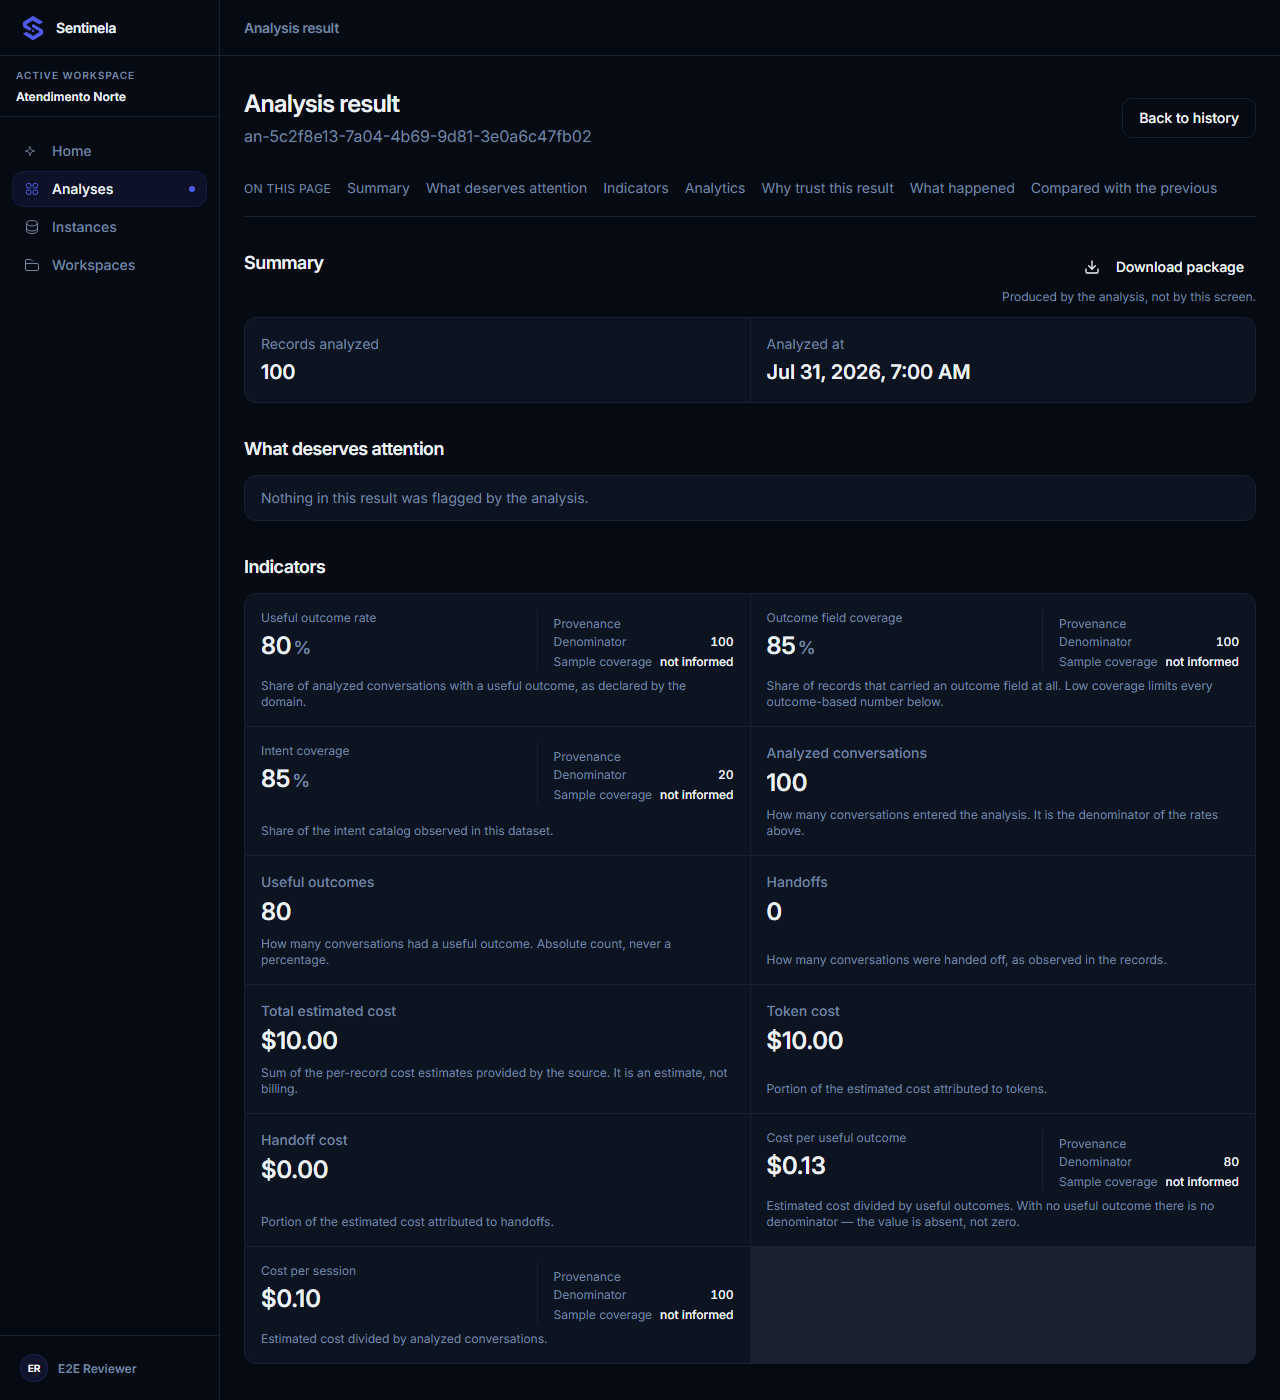
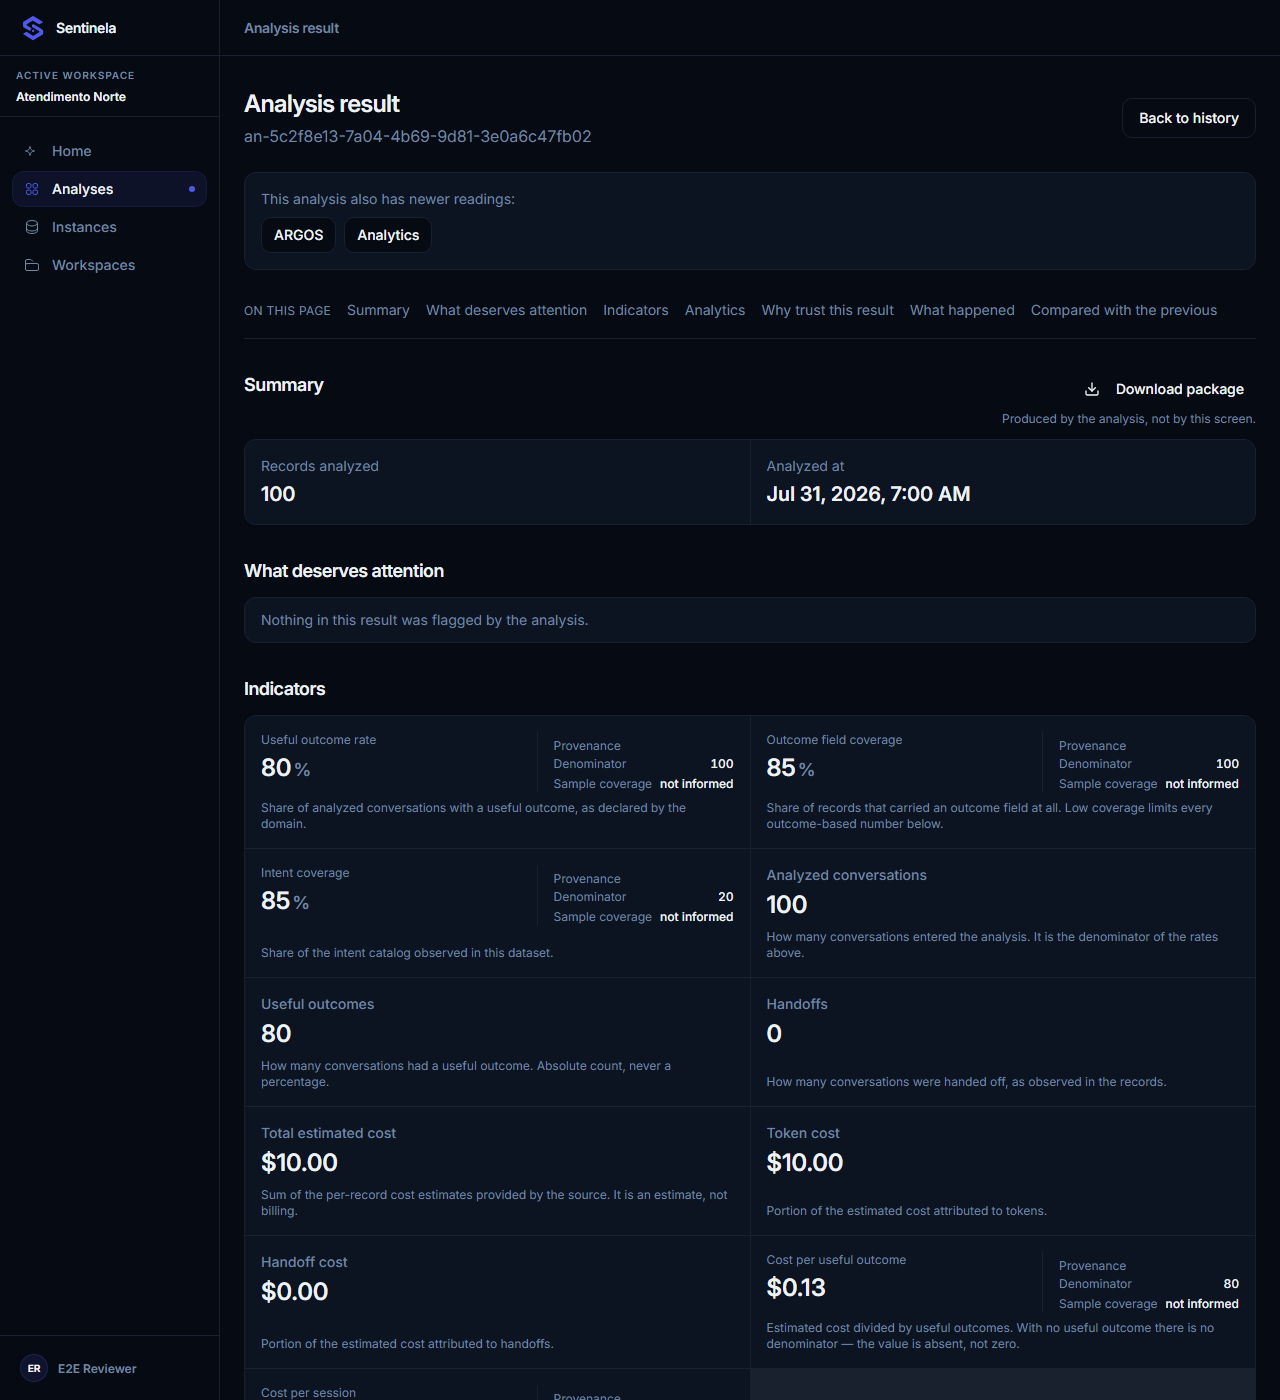
M45.3 (5): as decisoes de owner, e a remocao que nao aconteceu
O owner leu as dividas e comecou mandando APOSENTAR RES-01 -- a decisao que o
Blueprint 4.6 e o T7 deixavam em aberto.

Ao medir o alcance apareceu uma consequencia nao precificada: RES-01 e o UNICO
lugar do produto que le os documentos v1 e v2. As visoes vivas leem outra
coisa. Remove-la deixaria analises anteriores ao v3 sem leitura nenhuma, e
tornaria falsa uma frase que o produto ja diz -- "o resultado historico segue
disponivel", na visao ARGOS, aponta justamente para a tela que sairia.

Com isso na mesa, o owner reverteu: manter o deep link, da melhor forma, sem
excluir nada.

A PONTE, E A TRAVESSIA DO T7

A tela legada passa a oferecer as entradas de ARGOS e Analytics da MESMA
analise, da lista canonica VISOES_DA_ANALISE -- a mesma do shell e da jornada,
porque uma segunda lista divergiria no primeiro ajuste.

Isto atravessa a primeira metade do T7 ("nao recebe feature nova"), e a
travessia esta registrada no proprio PRODUCT-EXPERIENCE-FREEZE-V1.md, com o
motivo. A segunda metade segue intacta: nenhuma navegacao aponta PARA /result
-- esta sai dele. E o motivo declarado do T7 ("deep link antigo nao pode
quebrar") sustenta a decisao: a ponte nao quebra o link, faz o link levar a
algum lugar.

O SPINNER QUE PROMETIA O QUE NAO VEM

ProblemFeedback ganhou `aguardando`, padrao true -- quem nao sabe responder nao
muda nada. RES-01 passa false.

E o motivo de passar false e estrutural, nao uma conta: aquela pagina SO busca
[…]

diff --git a/src/features/canonical-analysis/ui/ResultPage.tsx b/src/features/canonical-analysis/ui/ResultPage.tsx
@@ -48,6 +48,7 @@ import { SecaoDeAtencao } from "./analytics/SecaoDeAtencao";
 import { RegiaoDeAnalyticsAoVivo } from "./analytics/RegiaoDeAnalyticsAoVivo";
 import { PainelDeProcedencia } from "./analytics/PainelDeProcedencia";
 import { LinhaDoTempo } from "./analytics/LinhaDoTempo";
+import { VISOES_DA_ANALISE } from "./visoes";
 import { ComparacaoComAnterior } from "./analytics/ComparacaoComAnterior";
 import { AcaoDeExport } from "./analytics/AcaoDeExport";
 import { IndiceDeRegioes, type RegiaoIndexada } from "./analytics/IndiceDeRegioes";
@@ -213,7 +214,28 @@ export function ResultPage() {
       );
     }
     if (resultado.isError) {
-      return <ProblemFeedback error={resultado.error} onRetry={() => void resultado.refetch()} retryDisabled={resultado.isFetching} />;
+      // `aguardando` sai do ESTADO da análise — decisão de owner, 2026-08-15.
+      //
+      // `result_not_available` é espera neutra, e com a análise em curso isso é verdade: o
+      // documento ainda vem. Com ela concluída e o documento levado pela retenção, nada vem — e o
+      // spinner prometia progresso que não existe, com `aria-busy` dizendo a um leitor de tela que
+      // a região está atualizando.
+      //
+      // Quem sabe responder é esta página, que já leu o status. O padrão do componente continua
+      // sendo `true`, para toda superfície que não sabe.
+      return (
+        <ProblemFeedback
+          error={resultado.error}
+          onRetry={() => void resultado.refetch()}
+          retryDisabled={resultado.isFetching}
+          // SEMPRE `false` aqui, e não uma conta sobre o status: esta página só busca o
+          // documento quando `pronto` (concluída E com resultado anunciado). O aviso nunca
+          // significa "ainda vem" nesta rota — significa que o documento foi levado pela
+          // retenção. Uma conta daria a impressão de que existe caso em curso, e não existe:
+          // eu escrevi essa conta primeiro, e a contraprova a reprovou por ser inalcançável.
+          aguardando={false}
+        />
+      );
     }
     if (!resultado.data) return null;
 
@@ -250,6 +272,45 @@ export function ResultPage() {
               <Link to="/analyses">{t("canonicalAnalysis.result.backToHistory")}</Link>
             </Button>
           </div>
+
+          {/* A PONTE PARA AS DUAS LEITURAS ATUAIS — decisão de owner, 2026-08-15.
+              ATRAVESSA O T7 DO PRODUCT FREEZE, e isso está registrado lá também.
+              T7 diz duas coisas: *"não recebe feature nova"* e *"nenhuma navegação canônica nova
+              aponta PARA ele"*. A segunda não é tocada — esta navegação sai daqui, não chega aqui.
+              A primeira é: um bloco de navegação é capacidade que a página não tinha.
+              O owner decidiu isto sabendo do congelamento, e o motivo do próprio T7 sustenta a
+              decisão: ele existe porque *"deep link antigo não pode quebrar"*. A ponte não quebra
+              o link — faz o link levar a algum lugar.
+              Esta é a superfície CONGELADA. Quem chega aqui veio de um link salvo, e a tela
+              mostrava tudo direito com uma saída só: voltar ao histórico. Nada dizia que existem
+              duas leituras mais novas da MESMA análise, então o link antigo servia para sempre
+              alguém que nunca conheceria a substituta. O owner decidiu manter o deep link e
+              fazê-lo funcionar "da melhor forma" — é isto.
+              A lista vem de `VISOES_DA_ANALISE`, a mesma que o shell e a jornada usam: uma segunda
+              lista divergiria no primeiro ajuste e esta tela passaria a oferecer visão que o
+              router não conhece. */}
+          {analysisId && (
+            <nav
+              aria-label={t("canonicalAnalysis.shell.viewsNavLabel")}
+              className="rounded-lg border border-border bg-card p-4"
+            >
+              <p className="text-sm text-muted-foreground">
+                {t("canonicalAnalysis.result.newerViews")}
+              </p>
+              <ul className="mt-2 flex flex-wrap gap-2">
+                {VISOES_DA_ANALISE.map((visao) => (
+                  <li key={visao.caminho}>
+                    <Button variant="outline" size="sm" asChild>
+                      <Link to={`/analyses/${encodeURIComponent(analysisId)}/${visao.caminho}`}>
+                        {t(`canonicalAnalysis.shell.view.${visao.caminho}`)}
+                      </Link>
+                    </Button>
+                  </li>
+                ))}
+              </ul>
+            </nav>
+          )}
+
           {corpo()}
         </div>
       </PageFrame>

diff --git a/e2e/m45-matriz.spec.ts b/e2e/m45-matriz.spec.ts
@@ -249,6 +249,29 @@ async function semResultado(page: Page): Promise<void> {
   );
 }
 
+/**
+ * Concluída e SEM resultado — o próprio status diz que não há.
+ *
+ * Não confundir com `semResultado`: lá o status anuncia `result_available: true` e o documento foi
+ * levado pela retenção. Aqui nunca houve o que anunciar, e a tela diz outra coisa.
+ */
+async function concluidaSemResultado(page: Page): Promise<void> {
+  await page.route("**/v1/analyses/*", (r) =>
+    r.fulfill(
+      json({
+        analysis_id: ANALISE,
+        status: "completed",
+        record_count: 1240,
+        result_available: false,
+        retry_allowed: false,
+        created_at: "2026-08-03T17:12:44Z",
+        updated_at: "2026-08-03T17:13:02Z",
+        instance_id: null,
+      }),
+    ),
+  );
+}
+
 /** Três análises em estados diferentes e uma Instância — o produto com CONTEÚDO. */
 async function povoar(page: Page): Promise<void> {
   await page.route(
@@ -338,6 +361,14 @@ const JOURNEYS: readonly Journey[] = [
     terminal: /Why trust this result|Por que confiar/ },
   { id: "J16", nome: "resultado indisponível", rota: `/analyses/${ANALISE}/result`,
     terminal: /No result is available|Nenhum resultado/, montar: semResultado },
+
+  // O estado que a M45.3 descobriu ao desfazer um julgamento errado, e que ficou de fora daquela
+  // rodada. Decisão de owner (2026-08-15): medir agora.
+  //
+  // É DIFERENTE de J16. Ali o status anuncia `result_available: true` e o documento foi levado
+  // pela retenção; aqui o próprio status diz que não há resultado. Duas telas, duas frases.
+  { id: "J17", nome: "concluída sem resultado", rota: `/analyses/${ANALISE}/result`,
+    terminal: /still being prepared|ainda está sendo preparado/, montar: concluidaSemResultado },
 ] as const;
 
 // ══════════════════════════════════════════════════════════════════════════════════════════
@@ -506,6 +537,40 @@ test.describe("M45 · G11 · os três estados não colapsam", () => {
       await page.locator('main [role="alert"]').count(),
       "a tela inteira fora do ar deixou de alarmar — a regra da casa foi afrouxada para todos",
     ).toBeGreaterThan(0);
+  });
+
+  // M45.3 · decisões de owner (2026-08-15) sobre a superfície CONGELADA.
+  //
+  // A primeira ATRAVESSA o T7 do Product Freeze, com emenda registrada lá: quem chega por deep
+  // link antigo passa a ver as entradas das duas leituras atuais da mesma Analysis. Sem isto, o
+  // link servia indefinidamente alguém que nunca conheceria a substituta.
+  test("o resultado legado oferece as duas leituras atuais da MESMA análise", async ({ page }) => {
+    await montarProduto(page);
+    await page.goto(`/analyses/${ANALISE}/result`);
+    await expect(page.locator("main")).toContainText(/Why trust this result/, { timeout: 20_000 });
+
+    // Os HREFS, e não só os rótulos: um link com o texto certo e o destino errado passaria.
+    for (const visao of ["argos", "analytics"]) {
+      await expect(
+        page.locator("main").locator(`a[href="/analyses/${ANALISE}/${visao}"]`),
+        `o resultado legado não oferece a visão ${visao} desta análise`,
+      ).toHaveCount(1);
+    }
+  });
+
+  // A segunda: o aviso de documento levado pela retenção não gira mais uma rodinha.
+  test("resultado purgado NÃO anuncia progresso — nada mais vem", async ({ page }) => {
+    await montarProduto(page);
+    await semResultado(page);
+    await page.goto(`/analyses/${ANALISE}/result`);
+    await expect(page.locator("main")).toContainText(/No result is available/, { timeout: 20_000 });
+
+    // `aria-busy` é o que um leitor de tela ouve como "esta região está atualizando".
+    const aviso = page.locator("main").getByText(/No result is available/).first();
+    expect(
+      await aviso.evaluate((el) => el.closest('[aria-busy="true"]') !== null),
+      "a tela anuncia que algo está em curso, e a análise já terminou",
+    ).toBe(false);
   });
 
   // A TERCEIRA causa: enquanto a leitura NÃO VOLTOU.

diff --git a/src/features/canonical-analysis/ui/a11y.test.tsx b/src/features/canonical-analysis/ui/a11y.test.tsx
@@ -6,6 +6,8 @@ import { beforeAll, describe, expect, it, vi } from "vitest";
 import { LanguageProvider } from "@/contexts/LanguageContext";
 import { createV1Client, type V1Client } from "@/lib/v1";
 import { statusView } from "@/test/fixtures/public-v1/analyses";
+import { ProblemError } from "@/lib/v1";
+import { ProblemFeedback } from "./notices";
 import { MSW_BASE } from "@/test/msw/handlers";
 import { setupMsw } from "@/test/msw/server";
 import { CanonicalClientProvider } from "../data/client";
@@ -50,5 +52,49 @@ describe("Acessibilidade (axe) — jornada canônica", () => {
   it("StateBanner (failed): sem violações", async () => {
     const { container } = render(wrap(<StateBanner view={statusView("failed", { retry_allowed: true })} />));
     expect(await semViolacoes(container)).toEqual([]);
+  });
+});
+
+// ═══════════════════════════════════════════════════════════════════════════════════════════
+// M45.3 · decisão de owner — anunciar espera só quando algo vem
+// ═══════════════════════════════════════════════════════════════════════════════════════════
+//
+// `aria-busy` é o que um leitor de tela ouve como *"esta região está atualizando"*, e o spinner é
+// a mesma promessa para quem enxerga. Com o documento levado pela retenção, nada vem.
+//
+// As DUAS direções, e a segunda é a que importa: o padrão do componente não pode ter mudado. Sem
+// ela, apagar o anúncio de espera de todo o produto passaria — e `capacity_wait`, que é espera de
+// verdade, ficaria mudo. Esta é a contraprova que uma tentativa anterior fez em e2e sobre RES-01,
+// onde ela é INALCANÇÁVEL: aquela página só busca o documento quando a análise já terminou.
+describe("M45.3 · ProblemFeedback anuncia espera só quando ela existe", () => {
+  const problema = () =>
+    new ProblemError({
+      type: "urn:sentinela:error:result_not_available",
+      title: "result_not_available",
+      status: 404,
+      code: "result_not_available",
+      detail: "result_not_available",
+      instance: "corr-1",
+      retryable: false,
+    });
+
+  it("por padrão, a espera CONTINUA sendo anunciada", () => {
+    const { container } = render(wrap(<ProblemFeedback error={problema()} />));
+    expect(
+      container.querySelector('[aria-busy="true"]'),
+      "o anúncio de espera sumiu de quem não declarou nada",
+    ).not.toBeNull();
+  });
+
+  it("com `aguardando={false}`, nada é anunciado como em curso", () => {
+    const { container } = render(
+      wrap(<ProblemFeedback error={problema()} aguardando={false} />),
+    );
+    expect(
+      container.querySelector('[aria-busy="true"]'),
+      "a tela anuncia progresso, e nada mais vem",
+    ).toBeNull();
+    // E o aviso continua na tela: silenciar a espera não pode silenciar a informação.
+    expect(container.textContent?.length ?? 0).toBeGreaterThan(10);
   });
 });

diff --git a/src/features/canonical-analysis/ui/notices.tsx b/src/features/canonical-analysis/ui/notices.tsx
@@ -61,6 +61,7 @@ export function ProblemFeedback({
   onNewAnalysis,
   retryDisabled,
   escopo = "tela",
+  aguardando = true,
 }: {
   error: unknown;
   onRetry?: () => void;
@@ -82,13 +83,25 @@ export function ProblemFeedback({
    * existe, sem o spinner, porque não há espera em curso a anunciar.
    */
   escopo?: "tela" | "detalhe";
+  /**
+   * Ainda vem alguma coisa? — decisão de owner de 2026-08-15.
+   *
+   * O tom neutro desenha um spinner, e para uma análise EM CURSO isso é verdade: o documento
+   * ainda está a caminho, e `result_not_available` significa "ainda não". Quando a análise já
+   * terminou e o documento foi levado pela retenção, nada vem — e a rodinha promete um progresso
+   * que não existe, com `aria-busy` dizendo a um leitor de tela que a região está atualizando.
+   *
+   * O padrão é `true` porque é o comportamento de sempre: quem não sabe responder não muda nada.
+   * Só quem CONHECE o estado terminal da análise passa `false`.
+   */
+  aguardando?: boolean;
 }) {
   const { t } = useLanguage();
   if (error == null) return null;
   const p = describeProblem(problemCodeOf(error));
   const detalhe = escopo === "detalhe";
   const erro = p.tone === "error" && !detalhe;
-  const esperando = p.tone !== "error" && !detalhe;
+  const esperando = p.tone !== "error" && !detalhe && aguardando;
   return (
     <div
       role={erro ? "alert" : "status"}

diff --git a/docs/m45/DOC-CLOSE-M45-3.md b/docs/m45/DOC-CLOSE-M45-3.md
@@ -132,6 +132,49 @@ fachada.
 | Estado `completed` + `result_available: false` não medido | Descoberto ao desfazer o julgamento da §5. É real e distinto; não entrou nesta rodada |
 | A lista não tem busca | Product-wide, já registrado na M45.4 e na M45.2 |
 
+## 9-bis. ADENDO — as decisões do owner (2026-08-15), depois do fechamento
+
+O owner leu as dívidas da §9 e decidiu. O caminho até a decisão importa, e fica registrado:
+
+> **Primeira resposta:** *"mata esse link antigo, deixa só o atual, não tem ninguém usando ainda"* —
+> ou seja, **aposentar RES-01**, que era exatamente a decisão que o Blueprint §4.6 e o T7 deixavam
+> em aberto.
+>
+> Ao medir o alcance, apareceu uma consequência não precificada: **RES-01 é o único lugar do
+> produto que lê os documentos `v1` e `v2`**. As visões vivas leem outra coisa — ARGOS lê o `v3`,
+> Analytics lê `/analytics`. Removê-la deixaria análises anteriores ao v3 **sem leitura nenhuma**, e
+> tornaria falsas duas frases que o produto já diz: *"o resultado histórico segue disponível"*, na
+> visão ARGOS, aponta justamente para a tela que sairia.
+>
+> **Segunda resposta, com a consequência na mesa:** *"então mantém o deep link da melhor forma, sem
+> excluir alguma coisa"*.
+
+### O que foi feito
+
+| decisão | o que mudou |
+|---|---|
+| **Manter RES-01 e fazer o deep link funcionar melhor** | A tela passa a oferecer as entradas de **ARG-01** e **ANL-01 da mesma Analysis**, a partir de `VISOES_DA_ANALISE` — a mesma lista do shell e da jornada. **Atravessa a primeira metade do T7**, com emenda registrada em [`PRODUCT-EXPERIENCE-FREEZE-V1.md`](../PRODUCT-EXPERIENCE-FREEZE-V1.md). A segunda metade segue intacta: nenhuma navegação aponta **para** `/result` |
+| **Tirar o spinner quando nada mais vem** | `ProblemFeedback` ganhou `aguardando`, com padrão `true` — quem não sabe responder não muda nada. RES-01 passa `false`, e o motivo é estrutural: a página **só** busca o documento quando a análise já terminou |
+| **Medir `completed` + `result_available: false`** | **J17** na matriz. É distinto de J16: ali o status anuncia o documento e a retenção o levou; aqui o próprio status diz que não há |
+| **Os três nomes divergentes** | **Não alinhados.** A justificativa mudou de base — "vai morrer" caiu quando a remoção foi descartada —, e a recomendação se mantém pelo outro motivo: são motores diferentes com produtos diferentes. Registrado como nota, aberto a revisão |
+
+### Uma contraprova que eu escrevi no lugar errado
+
+Escrevi, em e2e sobre RES-01, um caso afirmando que *com a análise em curso o aviso continua
+anunciando espera*. Ele reprovou — e a causa ensinou algo sobre a página: ela só busca o documento
+quando `pronto` (concluída **e** com resultado anunciado). **Naquela rota o aviso nunca significa
+"ainda vem".** A conta que eu tinha escrito em `aguardando` era inalcançável; virou `false` literal,
+com o motivo. A contraprova foi para onde é alcançável — unidade, sobre o componente —, e prova o
+que importa: **o padrão não mudou** para o resto do produto.
+
+### Mutação do adendo — 5/5
+
+a ponte some · a ponte aponta para a rota errada · o spinner volta na retenção · a espera some do
+padrão do componente · J17 deixa de servir o estado próprio. Todas mortas.
+
+**Provas do adendo:** typecheck 6 projetos · **369 arquivos** · Vitest **1663/1663** · Playwright
+**338/338**.
+
 ## 10. Commits
 
 `3bd8971` · `d79bea5` · `1811abe`

diff --git a/docs/PRODUCT-EXPERIENCE-FREEZE-V1.md b/docs/PRODUCT-EXPERIENCE-FREEZE-V1.md
@@ -274,6 +274,27 @@ não se fundem na tela.
 | **T6** | O lifecycle (`/analyses/:id`) mostra identidade, estado, progresso, disponibilidade dos componentes e as **entradas** das duas visões — e **não** vira terceira página de dados | dado em três lugares diverge em dois |
 | **T7** | **`/result` é LEGACY COMPATIBILITY.** Continua funcional e não recebe feature nova; nenhuma navegação canônica nova aponta para ele quando a visão correta existe | deep link antigo não pode quebrar, e a aposentadoria é decisão posterior |
 
+> **Emenda ao T7 — decisão de owner, 2026-08-15 (M45.3).**
+>
+> A M45.3 mediu a consequência do congelamento sem aposentadoria: quem chega a `/result` por um
+> link salvo vê a tela inteira e correta, com **uma saída só** — voltar ao histórico. Nada ali diz
+> que existem **duas leituras mais novas da mesma análise**. O link antigo servia, indefinidamente,
+> alguém que nunca conheceria a substituta.
+>
+> O owner considerou remover a superfície e **decidiu mantê-la**, com a instrução de fazer o deep
+> link funcionar *"da melhor forma"*. Em consequência, `/result` passa a oferecer as entradas de
+> `ARG-01` e `ANL-01` da mesma Analysis, a partir de `VISOES_DA_ANALISE` — a mesma lista do shell e
+> da jornada, para que não exista uma segunda lista divergindo no primeiro ajuste.
+>
+> **Isto atravessa a primeira metade do T7** (*"não recebe feature nova"*), e a travessia é
+> deliberada e registrada. A segunda metade continua valendo integralmente: **nenhuma navegação
+> canônica aponta PARA `/result`** — esta navegação sai dele. E o motivo declarado do próprio T7
+> (*"deep link antigo não pode quebrar"*) é o que sustenta a decisão: a ponte não quebra o link,
+> faz o link levar a algum lugar.
+>
+> **A aposentadoria segue sendo decisão posterior, e segue não tomada.** Ver
+> [`docs/m45/DOC-CLOSE-M45-3.md`](m45/DOC-CLOSE-M45-3.md).
+
 ### Status ≠ status de motor
 
 `StatusBadge` continua representando o **lifecycle da Analysis** (os 8 `public_states`). Não é
